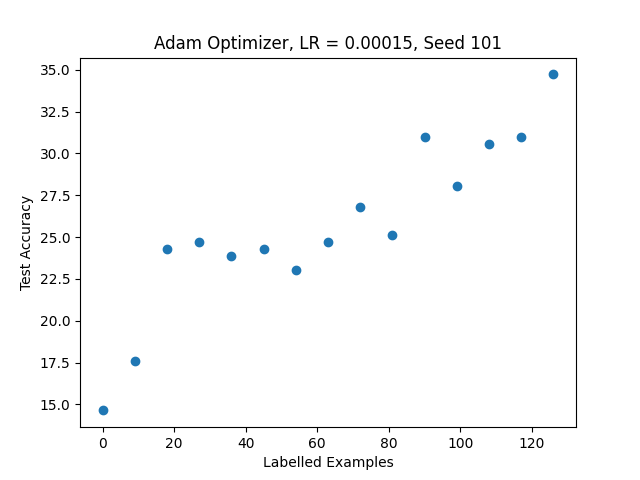
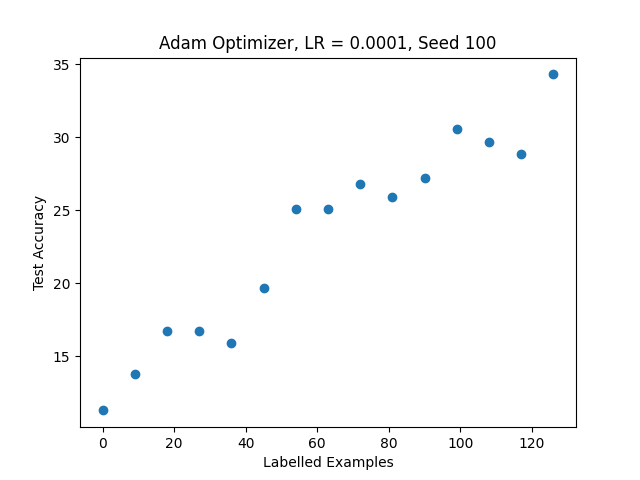
Main cleanup

diff --git a/Active_FSL/base_main.py b/Active_FSL/base_main.py
@@ -90,7 +90,7 @@ data_train = BREAKHIS_PICKLE("/home/jupyter-nschiavo@ualberta.-a5539/realcode/Ac
 iters = 0
 
 ###########load pseudo labels###########
-pseudo_labels=torch.load("/home/jupyter-nschiavo@ualberta.-a5539/realcode/Active-FSL/Generate_Pseudo_Labels/pseudo_labels_checkpoint0199.pth")
+pseudo_labels=torch.load("/home/jupyter-nschiavo@ualberta.-a5539/realcode/Active-FSL/Generate_Pseudo_Labels/breakhis_pseudo_labels_checkpoint0199.pth")
 pseudo_labels=pseudo_labels.cpu().detach().numpy()
 
 ####### Get TSNE graphs ###################
@@ -438,38 +438,35 @@ if __name__ == '__main__':
             print("Class{}_acc:{}".format(i,acc[i]))
             
             
-        ############
-        ############ ASSUME that all of the above works correctly to load the images in and setup the model
-        ############
-        
 
         ################# Active learning cycles################
         for cycle in range(CYCLES): # cycles in config
 
             criterion      = nn.CrossEntropyLoss(reduction='none')            
             
-            ###### Just finetune classifier in each AL cycle.#####
-            # finetuning = retraining the pretrained layers
-            
+            # stochastic gradient descent
             #optim_backbone = optim.SGD(models['backbone'].fc.parameters(), lr=LR, momentum=MOMENTUM, weight_decay=WDECAY)
             
-            # trying adam optimizer
+            # adam optimizer
             optim_backbone = optim.Adam(models['backbone'].fc.parameters(), lr=LR, weight_decay=WDECAY)
             
             sched_backbone = lr_scheduler.MultiStepLR(optim_backbone, milestones=MILESTONES)
             optimizers = {'backbone': optim_backbone}
             schedulers = {'backbone': sched_backbone}
             
-            
+            # formatting for each cycle
             print('--------------------------------Cycle %d/%d--------------------------------' % (cycle+1, CYCLES))
             
-            # Training and test
-            # assume that the below training functions are correct
+            # Training
             train(models, criterion, optimizers, schedulers, dataloaders, EPOCH, EPOCHL, vis=None)
+            
+            # testing
             acc_all, acc = test(models, dataloaders, mode='test')
+            
+            # results of the testing
             print('Trial %d/%d || Cycle %d/%d || Label set size %d: Test acc %.3f%%' % (trial+1, TRIALS, cycle+1, CYCLES, len(labeled_set), acc_all))
             for i in range(NUM_CLASSES):
-                print("Class{}_acc:{}".format(i,acc[i]))
+                print("Class %d Acc: %.3f" % (i,acc[i]))
             
             # for plotting
             y.append(acc_all)
@@ -502,60 +499,38 @@ if __name__ == '__main__':
             
             ###### Measure uncertainty of each sample in the unlabeled_set #####
             
-            #uncertainty = torch.nn.functional.normalize(get_uncertainty_margin(models, unlabeled_loader), dim=0) + torch.nn.functional.normalize(get_uncertainty_entropy(models, unlabeled_loader, unlabeled_set), dim=0)
+            """ margin only """
+            #uncertainty = get_uncertainty_margin(models, unlabeled_loader)
             
-            uncertainty = get_uncertainty_margin(models, unlabeled_loader)
             
-            # this one has the best results so far (marginal + entropy nonnormalized)
+            """ entropy only """
+            uncertainty = get_uncertainty_entropy(models, unlabeled_loader, unlabeled_set) #for entropy
+            
+            
+            """ margin and entropy unnormalized """
             #uncertainty = get_uncertainty_margin(models, unlabeled_loader) + get_uncertainty_entropy(models, unlabeled_loader, unlabeled_set)
             
-            #uncertainty = get_uncertainty_entropy(models, unlabeled_loader, unlabeled_set) #for entropy
             
-            ###### Index in ascending order #####
-            #arg = np.argsort(uncertainty)
-            
-            # pseudo complete sets are basically feature based sampling
+            """ normalized margin and entropy """
+            #uncertainty = torch.nn.functional.normalize(get_uncertainty_margin(models, unlabeled_loader), dim=0) + torch.nn.functional.normalize(get_uncertainty_entropy(models, unlabeled_loader, unlabeled_set), dim=0)
             
             arg = np.argsort(uncertainty)
             
-            # randomizer
+            # optional randomizer
             #arg = arg[torch.randperm(len(arg))]
             
             
-            
-            
-            ##### First round selection is to select K samples with the highest Query Score.#####
+            """ First round selection - individually selected samples """
             
             # ADDENDUM most informative samples method
-            first_selection_K_samples=list(torch.tensor(unlabeled_set)[arg][-ADDENDUM:].numpy()) # ADDENDUM=K, select K samples in each active learning cycle.
+            # first_selection_K_samples=list(torch.tensor(unlabeled_set)[arg][-ADDENDUM:].numpy()) # ADDENDUM=K, select K samples in each active learning cycle.
             
             # even selection method
-            #step = len(unlabeled_set)//ADDENDUM + 1
-            #first_selection_K_samples=list(torch.tensor(unlabeled_set)[arg][::step].numpy())
-            
-            ### Print the cover ###
-            first_selection_K_samples_labels=[]
-            for i in first_selection_K_samples:
-                first_selection_K_samples_labels.append(data_train.targets[i])
-            first_selection_K_samples_distribution=Counter(first_selection_K_samples_labels)
-            
-            selected_p_labels=[]
-            # pseudo labels are pre generated labels (!) from another algorithm (?)
-            for sample_index in first_selection_K_samples:
-                selected_p_labels.append(pseudo_labels[sample_index])
-            #print("First selection indices:",first_selection_K_samples)
-            #print("First selection pseudo labels:  ",selected_p_labels)
-            #print("First selection true labels:    ",first_selection_K_samples_labels)
-            #print("First selection distribution:   ",first_selection_K_samples_distribution)
+            step = len(unlabeled_set)//ADDENDUM + 1
+            first_selection_K_samples=list(torch.tensor(unlabeled_set)[arg][::step].numpy())
             
             
-            
-            ### begin second selection
-            
-            
-            ##### Get NUM_SHOTS true complete sets according to the query list #########
-            
-            # first 9 pseudocomplete samples
+            """ Second round selection - pseudocomplete sets """
             
             list0=[]
             second_selection_samples=[]
@@ -568,78 +543,44 @@ if __name__ == '__main__':
                     second_selection_samples.append(item)
                 if len(list0)>(NUM_CLASSES*NUM_SHOTS-1): # sample a complete N-way one-shot support set with pseudolabels
                     break
+                    
             
-            
-            ## evenly selected
-            
-            
-            #second_selection_samples=[]
-            #splits = (np.array_split(arg, ADDENDUM))
-            #list0 = []
             
             """
-            for phase in splits:
-                for item in torch.flip(phase,[0]):             # arg is the query list                         
-                    
-                    p_label = pseudo_labels[item]
-                    
-                    if list0.count(p_label) == 0 or cycle > 6:
-                        second_selection_samples.append(item)
-                        list0.append(p_label)
-                        break
+            # evenly selected pseudo complete sets
+            
+            splits = np.array_split(arg, ADDENDUM)
+            while (len(list0) < 9):
+                for phase in reversed(splits):
+                    for item in torch.flip(phase,[0]):             # arg is the query list                         
+                        p_label = pseudo_labels[item]
+                        if list0.count(p_label) == 0:
+                            second_selection_samples.append(item)
+                            list0.append(p_label)
+                            break
             """
             
             
-            ## alt second selection method
+            """ Print Statistics """
             
-            ## spamming one class never works to increase accuracy
+            ### First selection statistics ###
+            first_selection_K_samples_labels=[]
+            for i in first_selection_K_samples:
+                first_selection_K_samples_labels.append(data_train.targets[i])
+            first_selection_K_samples_distribution=Counter(first_selection_K_samples_labels)
             
-            """
-            if acc_all < 0:
-                print("Selecting via even sampling")
-                
-                while (len(list0) < 9):
-                    for phase in reversed(splits):
-                        for item in torch.flip(phase,[0]):             # arg is the query list                         
-
-                            p_label = pseudo_labels[item]
-
-                            if list0.count(p_label) == 0:
-                                second_selection_samples.append(item)
-                                list0.append(p_label)
-                                break
-            else:
-                print("Selecting via normal sampling")
-                for item in torch.flip(arg,[0]):
-                    
-                    true_label = pseudo_labels[item]
-                    
-                    if list0.count(true_label)<NUM_SHOTS:
-                        list0.append(true_label)
-                        second_selection_samples.append(item)
-                        
-                    if len(list0)>(NUM_CLASSES*NUM_SHOTS-1): # sample a complete 9-way one-shot support set
-                        break
-            """
-                    
-            #print("second_selection_samples_indices:",second_selection_samples)
-            second_selection_samples_labels=[]
-            
-            for i in second_selection_samples:
-                second_selection_samples_labels.append(data_train.targets[i])
-            second_selection_samples_distribution=Counter(second_selection_samples_labels)
+            selected_p_labels=[]
+            # pseudo labels are pre generated labels from another algorithm (basically feature mapping)
+            for sample_index in first_selection_K_samples:
+                selected_p_labels.append(pseudo_labels[sample_index])
+            #print("First selection indices:",first_selection_K_samples)
+            print("First selection pseudo labels:  ",selected_p_labels)
+            print("First selection true labels:    ",first_selection_K_samples_labels)
+            print("First selection distribution:   ",first_selection_K_samples_distribution)
             
             
-            ### end second selection
+            ### Second selection statistics ###
             
-            
-            #print("second_selection_samples true labels:             ",second_selection_samples_labels)
-            #print("second_selection_samples true label distribution: ",second_selection_samples_distribution)
-                 
-                
-                
-                
-            ##### Print statistics #####
             second_selection_samples_labels=[]
             second_selection_samples_p_labels = []
             for i in second_selection_samples:
@@ -650,7 +591,6 @@ if __name__ == '__main__':
             second_selected_p_labels=[]
             for sample_index in second_selection_samples:
                 second_selected_p_labels.append(pseudo_labels[sample_index])
-            #print("Second selection indices:",second_selection_samples)
             print("Second selection true labels:    ",second_selection_samples_labels)
             print("Second selection pseudo labels:  ",second_selected_p_labels)
             print("Query pseudo label distribution: ", second_selection_samples_p_distribution)
@@ -658,24 +598,13 @@ if __name__ == '__main__':
             
             
             ########## Update the labeled dataset and the unlabeled dataset, respectively #####
-            ##### If there's only one-round selection #####         
-            ##first_selection_labeled_set += first_selection_K_samples  ### for TSNE PLOT
             
-            # experimental dual round selection
-            #labeled_set += first_selection_K_samples 
+            # use one of the below depending on the selection
             
-            ##### If there's a second round selection#####          
-            labeled_set += second_selection_samples
-            
-            ##print labeled samples indexes
-            ##print("Labeled set sample_indexes: ",labeled_set)
-            ###print statistics###
-            
-            
-            
+            labeled_set += first_selection_K_samples              
+            #labeled_set += second_selection_samples
             
             # gathering the true labels for the queried data
-            
             labeled_set_labels=[]
             for i in labeled_set:
                 labeled_set_labels.append(data_train.targets[i])
@@ -689,7 +618,6 @@ if __name__ == '__main__':
             
             ###### Update the unlabeled set #######
             unlabeled_set = list(set(indices).difference(set(labeled_set))) 
-            #random_querylist=list(set(random_querylist).difference(set(labeled_set))) 
             
             ###### Update the train_loader #######
             dataloaders['train'] = DataLoader(data_train,
@@ -707,34 +635,6 @@ if __name__ == '__main__':
                                             sampler=SubsetSequentialSampler(second_selection_samples), 
                                             pin_memory=True)
             
-            
-            
-            ###### Save images in the second round selection #####
-            dir_name="resize84_visualize_labeled_set/Trial{}/{}_cluster/Cycle{}/second_selection/".format(trial+1,NUM_CLUSTERS,cycle+1)
-            if not os.path.isdir(dir_name):
-                    os.makedirs(dir_name)
-                     
-            second_selection_data_all=torch.Tensor()
-            second_selection_target_all=torch.Tensor()
-
-            for batch_index, data_target in enumerate(second_selection_samples_loader): 
-        
-                second_selection_data=data_target[0]
-                second_selection_target=data_target[1]
-                second_selection_data_all=torch.cat((second_selection_data_all,second_selection_data),0)
-                second_selection_target_all=torch.cat((second_selection_target_all,second_selection_target),0)
-                
-            #for i in range(second_selection_data_all.shape[0]):
-            #        save_image(second_selection_data_all[i],"resize84_visualize_labeled_set/Trial{}/{}_cluster/Cycle{}/second_selection/img{}_Class{}.png".format(trial+1,NUM_CLUSTERS,cycle+1,i+1,int(second_selection_target_all[i])))
-            ########################################################### 
-            
-        # Save a checkpoint
-        # torch.save({
-        #             'trial': trial + 1,
-        #             'state_dict_backbone': models['backbone'].state_dict(),
-        #             #'state_dict_module': models['module'].state_dict()
-        #         },
-        #         './nct/train/weights/active_resnet18_nct_trial{}.pth'.format(trial))
     
     print("1 cycle = %.3f, 7 cycles = %.3f, 11 cycles = %.3f, 15 cycles = %.3f" % (beginacc, midacc, endacc, finalacc))
     plt.figure()

diff --git a/Active_FSL/config.py b/Active_FSL/config.py
@@ -24,10 +24,10 @@ TRIALS = 1
 MARGIN = 1.0 # xi
 WEIGHT = 1.0 # lambda
 EPOCH = 200
-LR = 0.00015 # best success with 1e-4 so far
+LR = 0.0001 # best success with 1e-4 so far
 MILESTONES = [160]
 EPOCHL = 120 # After 120 epochs, stop the gradient from the loss prediction module propagated to the target model
 MOMENTUM = 0.9
 WDECAY = 5e-4
 
-RANDOM_SEED = 101
+RANDOM_SEED = 100
